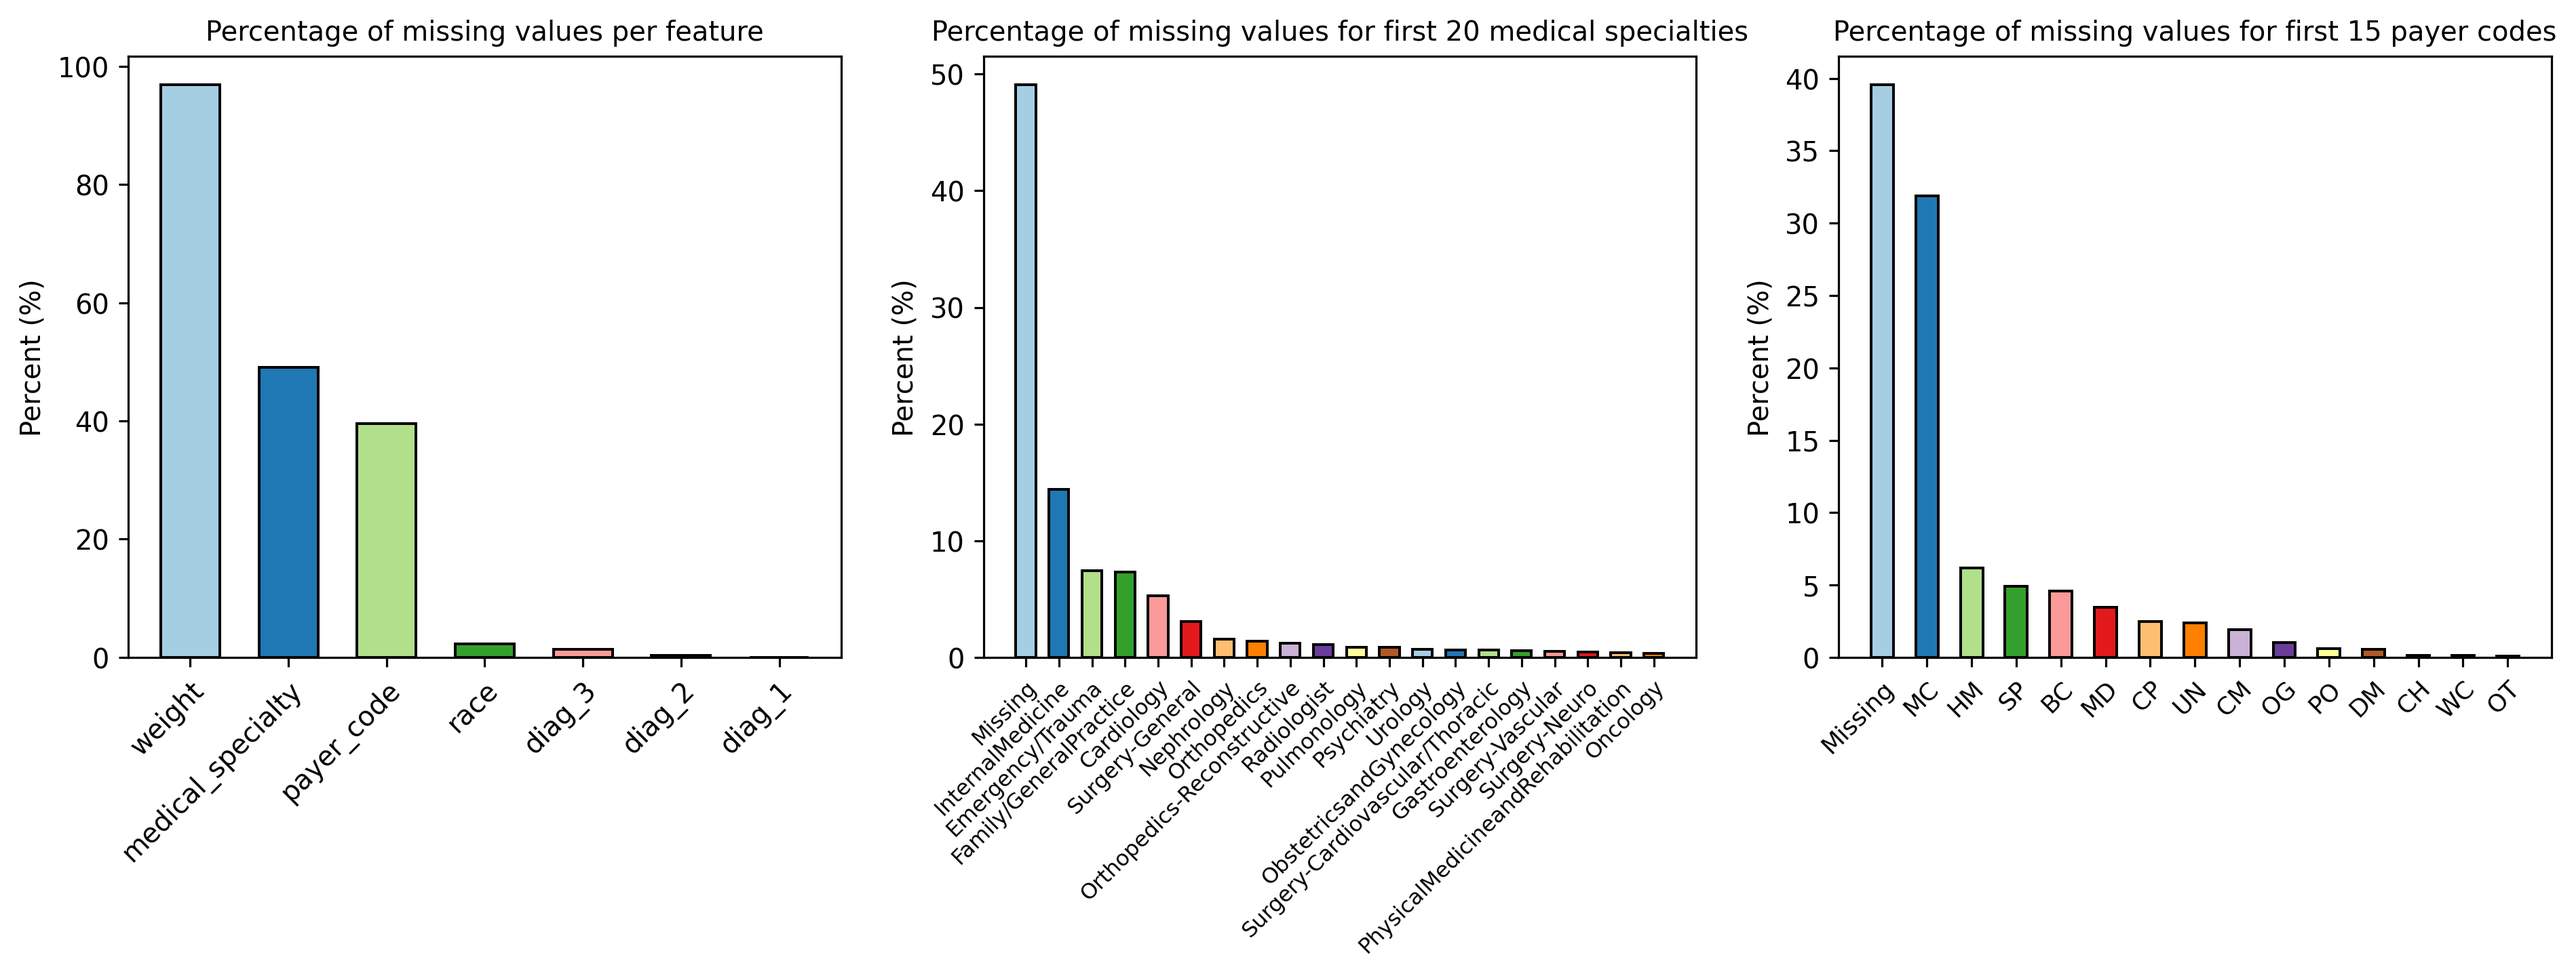
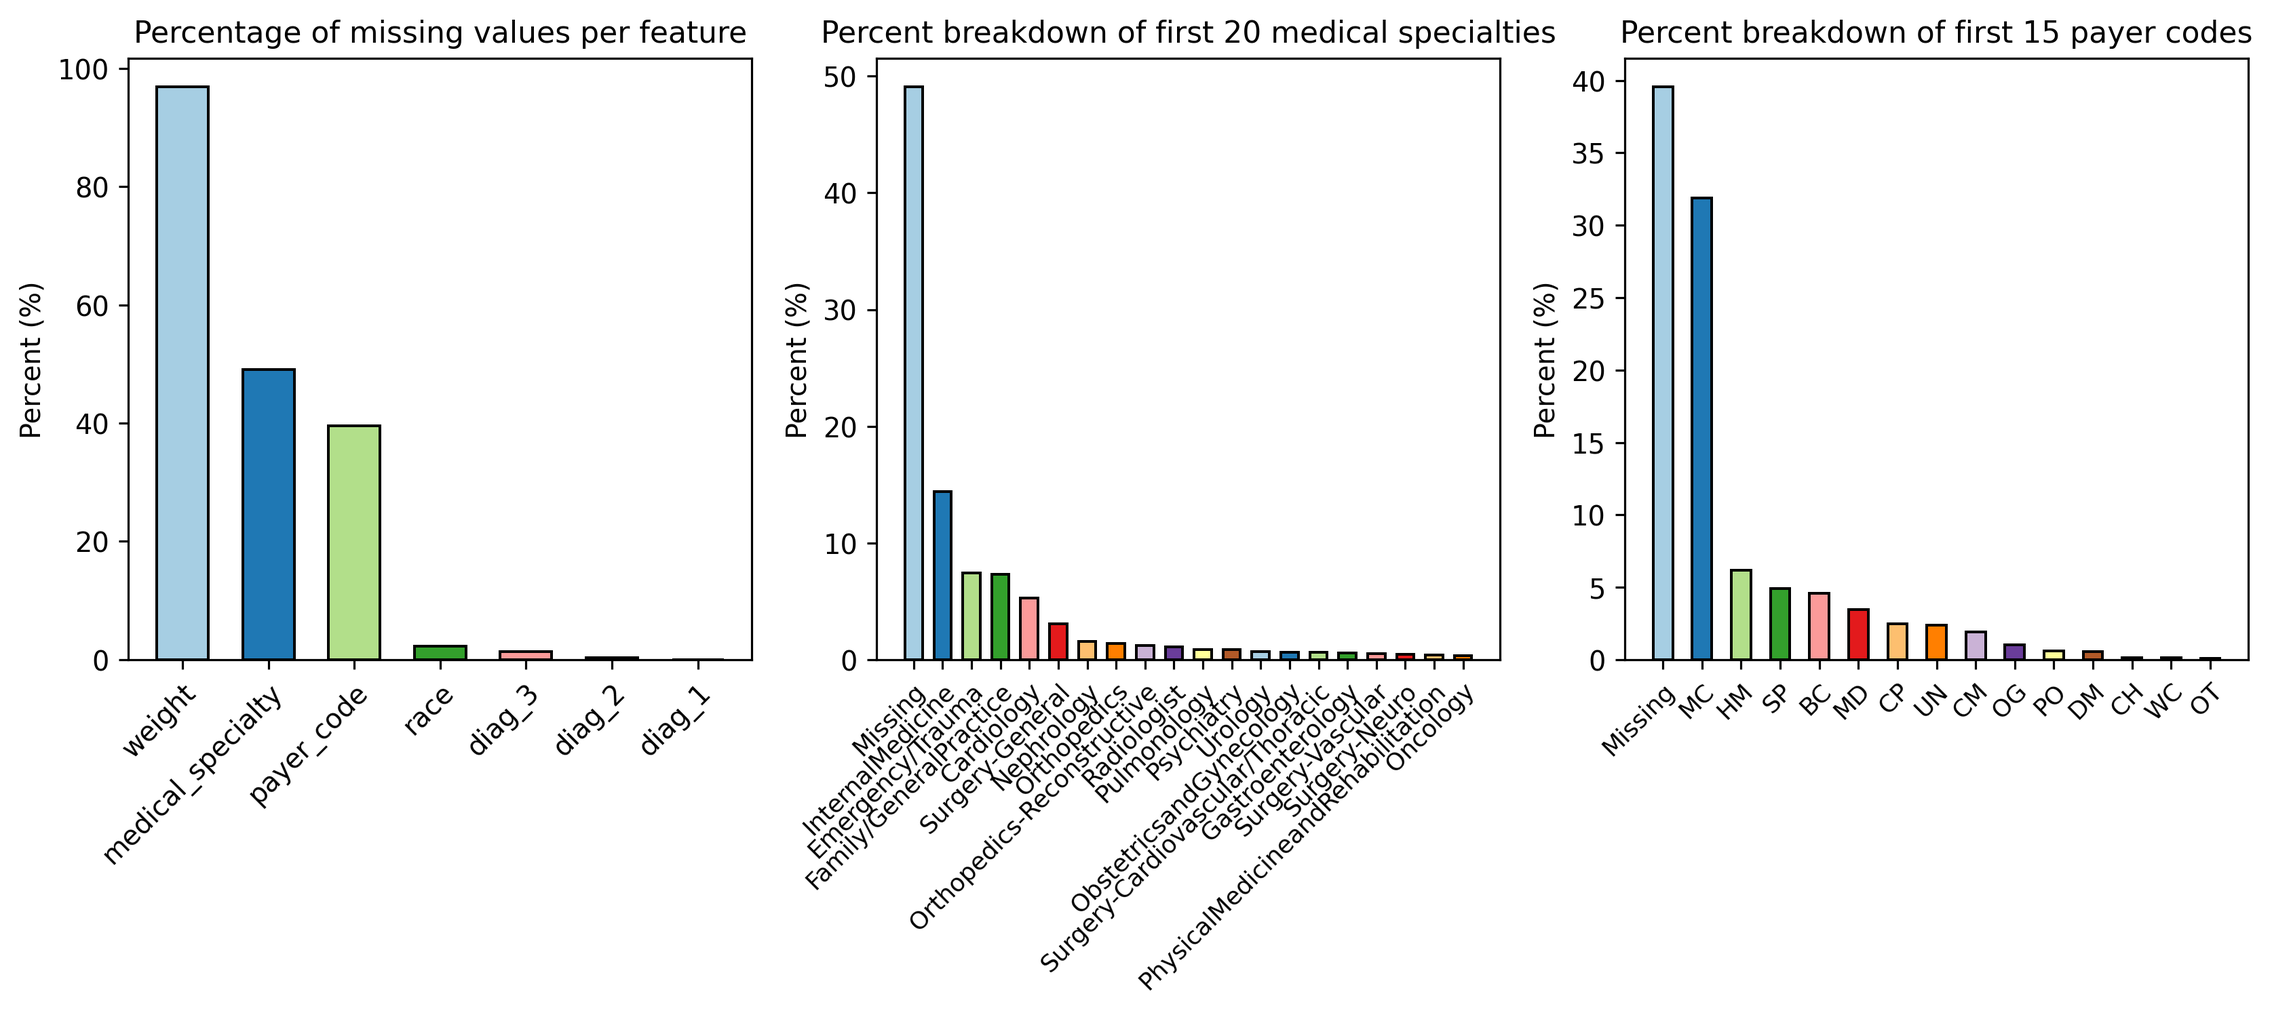
Change in titles and font size

Changed region(s): [[0.3416, 0.0, 0.6832, 0.9688], [0.0, 0.0, 0.3416, 0.875], [0.6521, 0.0, 0.9937, 0.75]]

diff --git a/exploratory_data_analysis/null_values_payer_codes_speciality.py b/exploratory_data_analysis/null_values_payer_codes_speciality.py
@@ -43,17 +43,17 @@ medical_specialty_df['Feature'] = medical_specialty_df['Feature'].cat.add_catego
 
 df_list = [missing_df, medical_specialty_df, payer_code_sorted_df]
 title_list = ['Percentage of missing values per feature',
-              'Percentage of missing values for first 20 medical specialties',
-              'Percentage of missing values for first 15 payer codes']
+              'Percent breakdown of first 20 medical specialties',
+              'Percent breakdown of first 15 payer codes']
 wd_list = [0.6, 0.6, 0.5]
-fontsize_list = [10, 8, 9]
+fontsize_list = [10, 9, 9]
 
 # plot
-fig, axes = plt.subplots(1, 3, figsize=(16, 4))
+fig, axes = plt.subplots(1, 3, figsize=(14, 4))
 for df, ax, title, wd, ft in zip(df_list, axes, title_list, wd_list, fontsize_list):
     ax.bar(df.iloc[:, 0], df.iloc[:, 1], color=plt.cm.Paired.colors, edgecolor='k', width=wd)
     plt.setp(ax.get_xticklabels(), ha="right", rotation_mode="anchor", rotation=45, fontsize=ft)
     plt.setp(ax.get_yticklabels(), fontsize=10)
     ax.set_ylabel('Percent (%)', fontsize=10)
-    ax.set_title(title, fontsize=10)
+    ax.set_title(title, fontsize=11)
 plt.savefig('plots/null_values_payer_codes_speciality.png', dpi=288, bbox_inches='tight')
